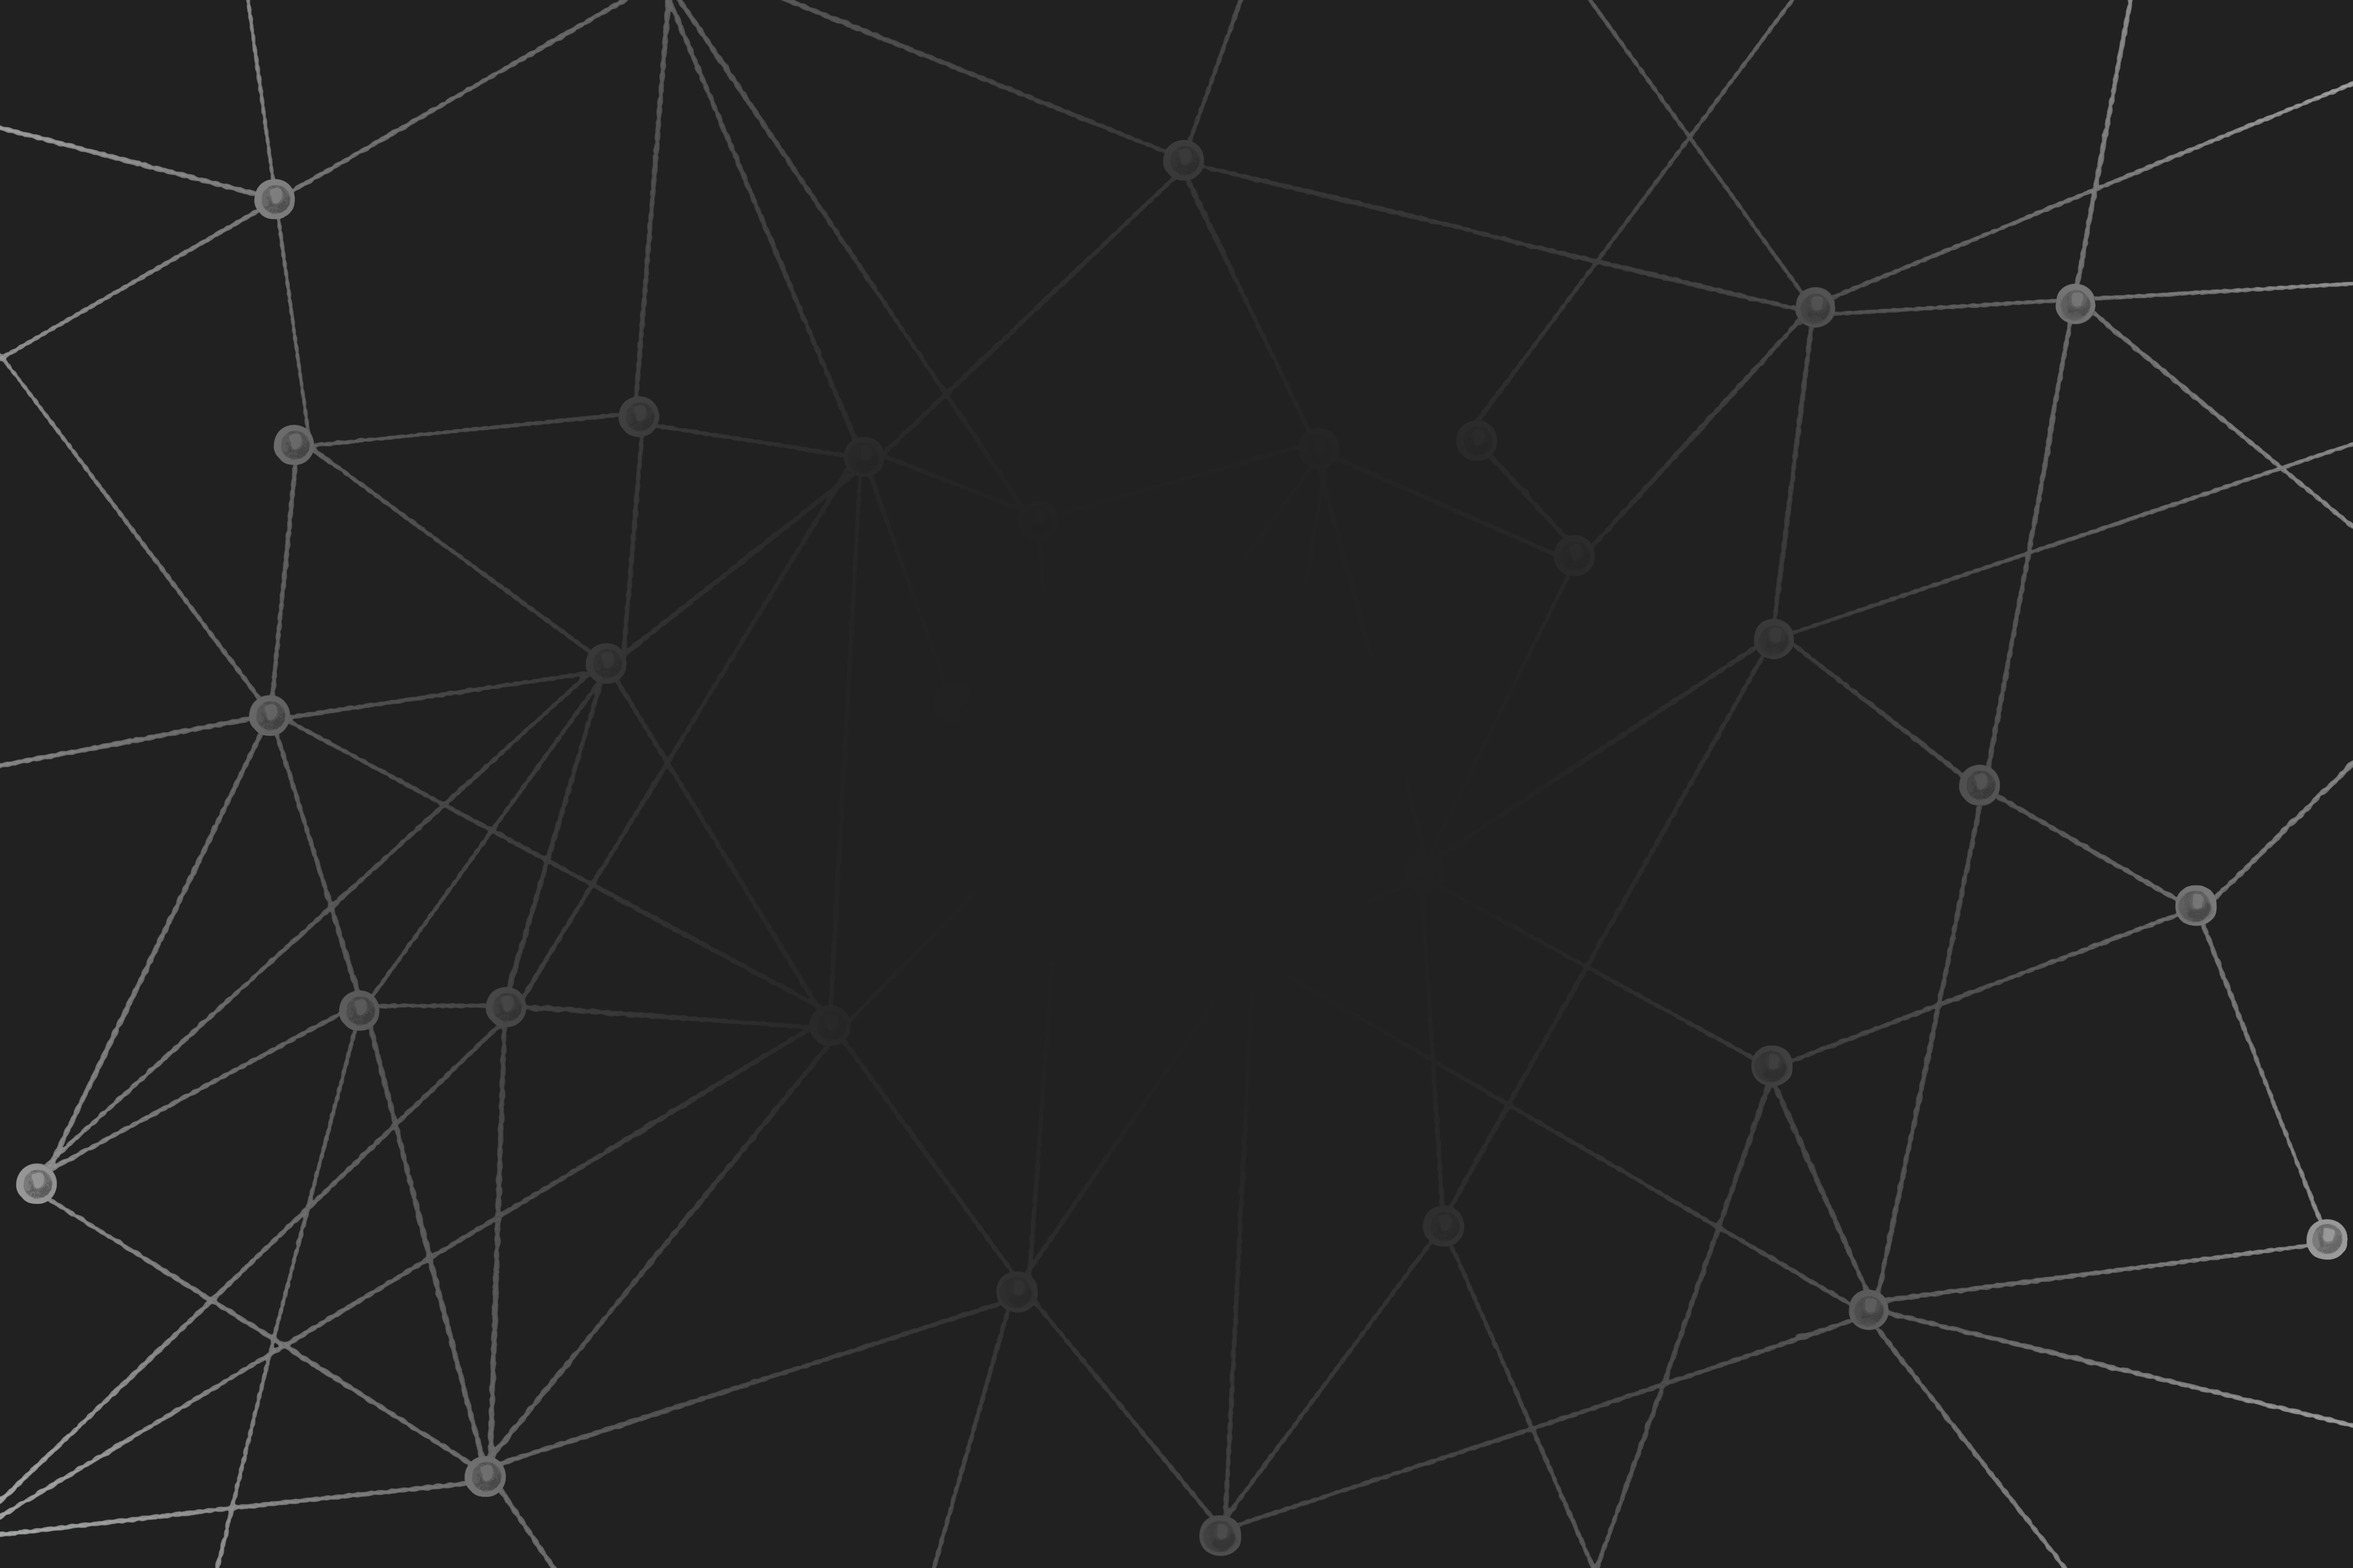
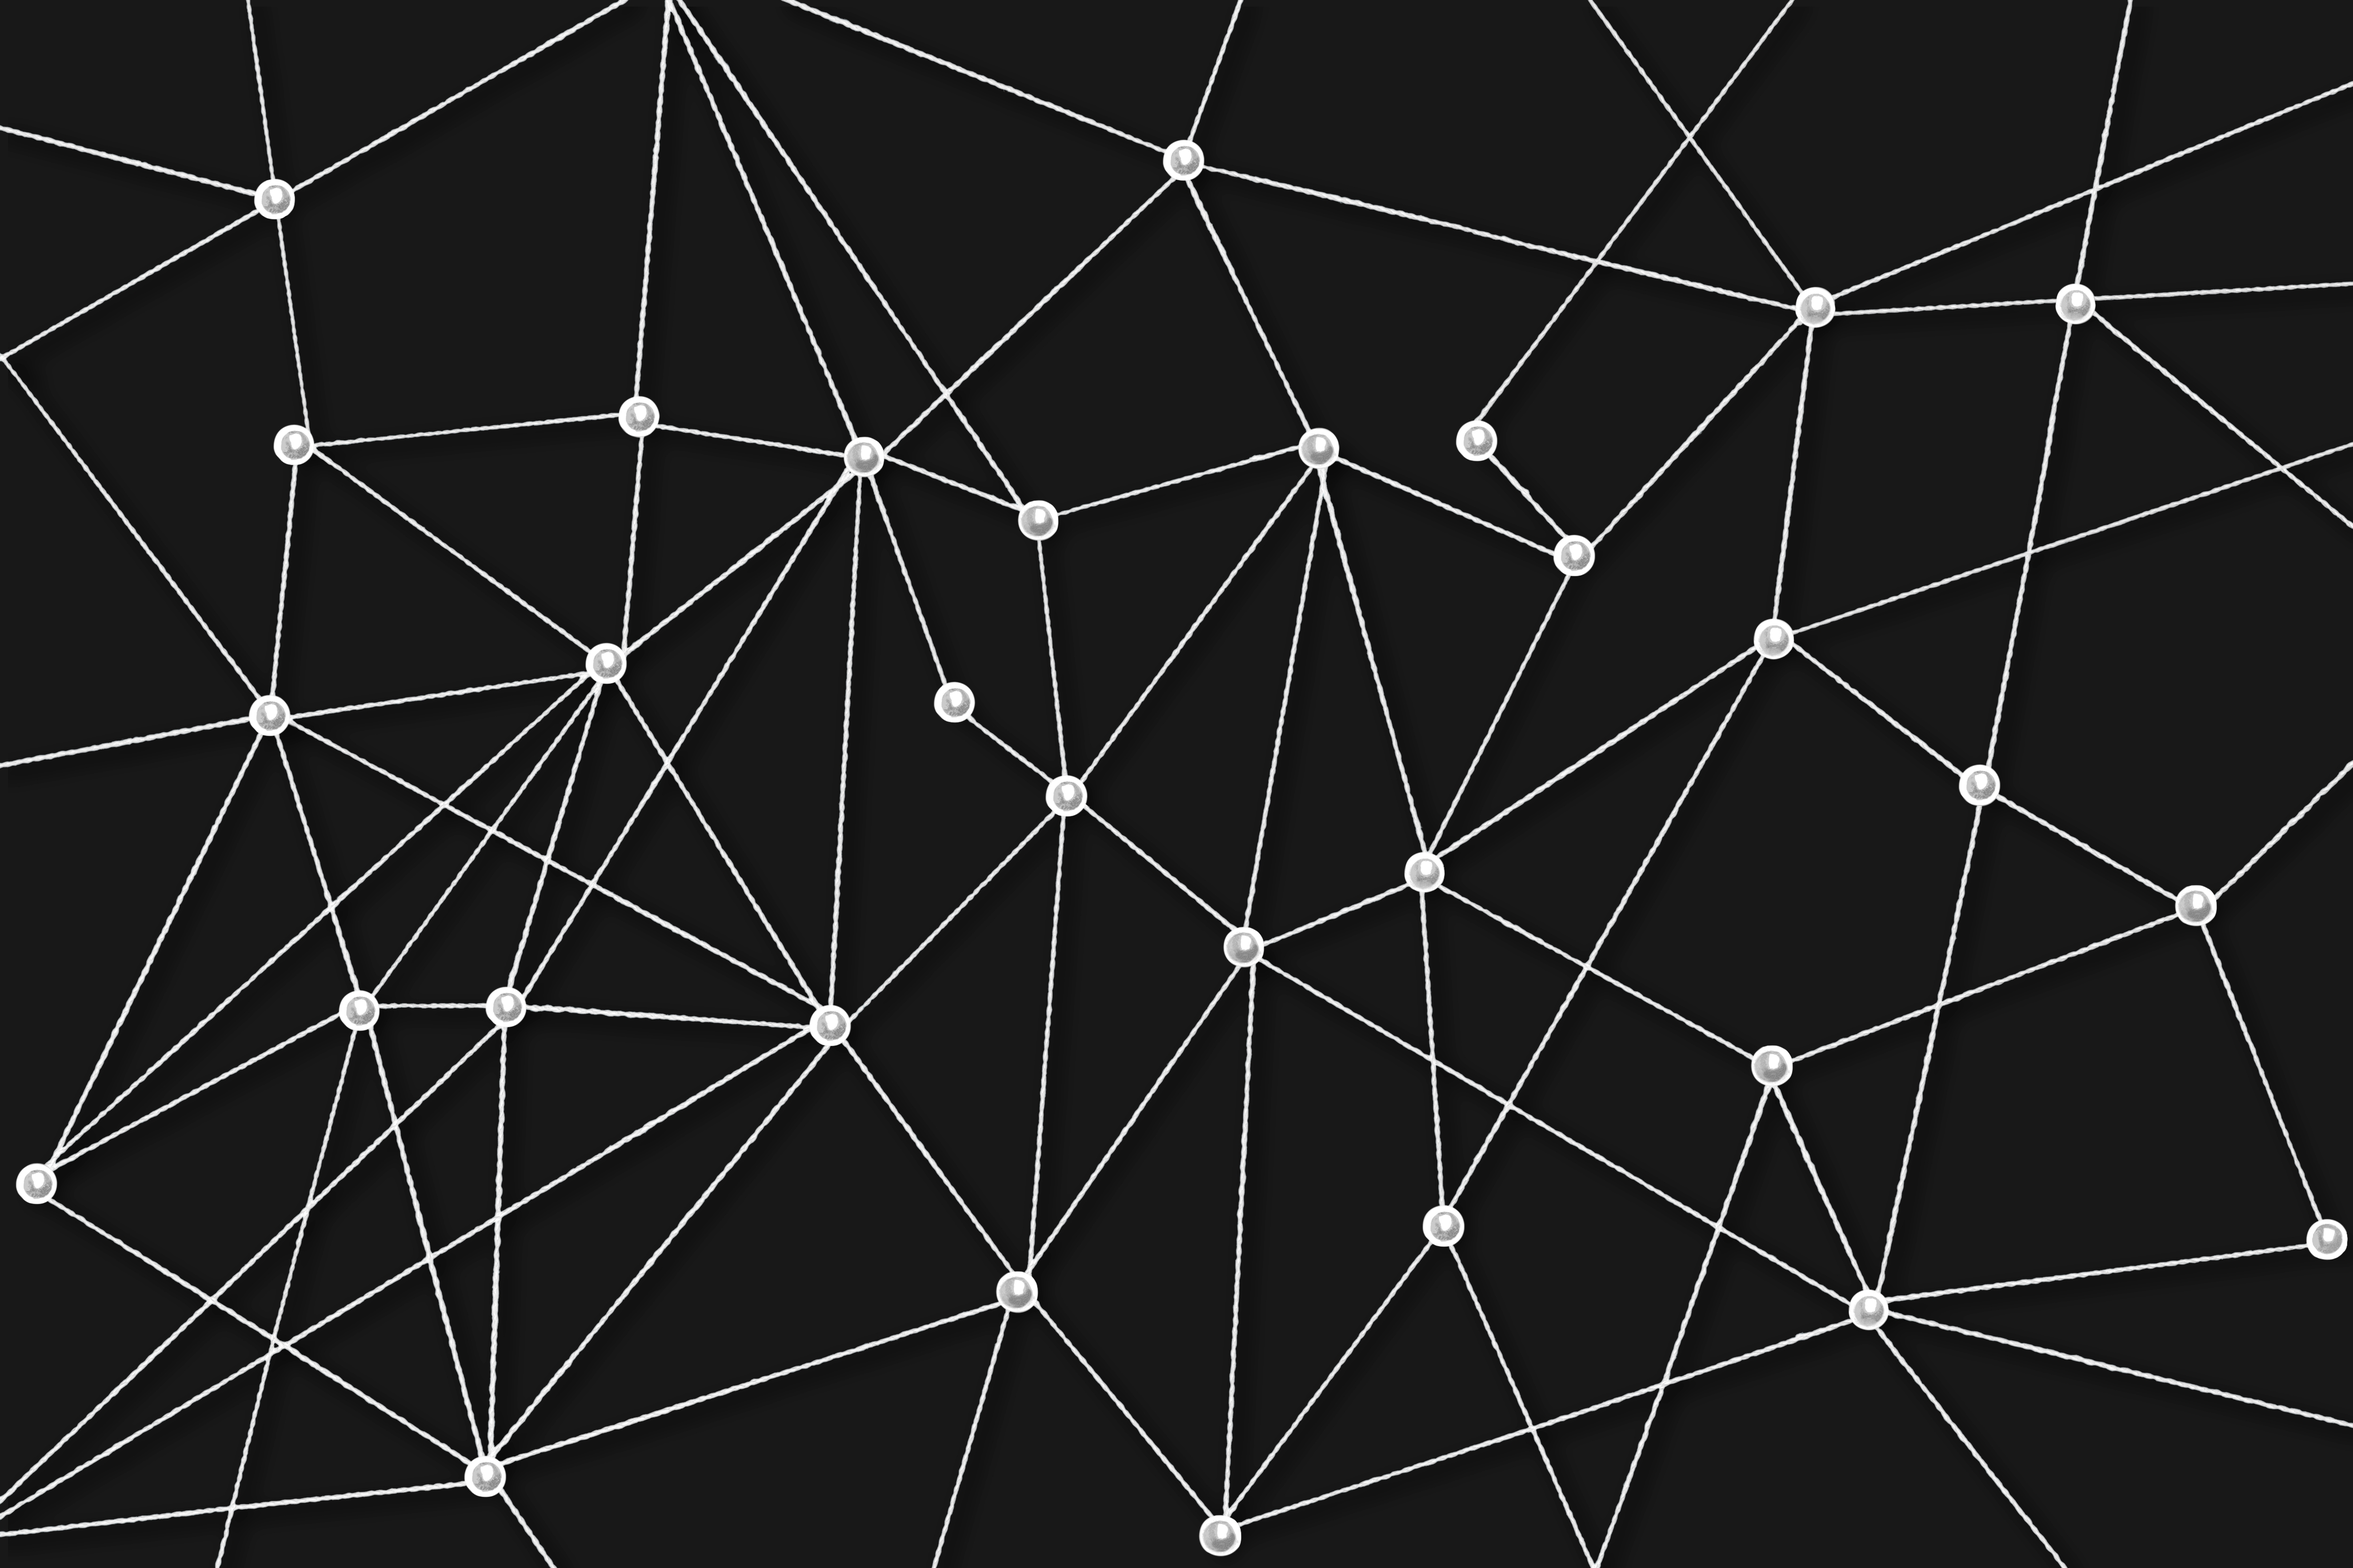
created generic radial bg class and updated ai matcher, application tracker, and programs section

diff --git a/src/app/components/Main/GridSections/AIMatcherSection.tsx b/src/app/components/Main/GridSections/AIMatcherSection.tsx
@@ -1,7 +1,7 @@
 import React from "react";
 import { useRouter } from "next/navigation";
 import BrainAI from "@/app/components/Icons/BrainAI";
-import neuralNetwork from "@/images/neuralnetwork.jpg";
+import neuralNetwork from "@/images/neuralnetwork.png";
 import Image from "next/image";
 
 const AIMatcherSection = () => {
@@ -9,10 +9,10 @@ const AIMatcherSection = () => {
 
   return (
     <div
-      className={`relative row-span-1 col-span-2 max-[2000px]:col-span-4 max-[2000px]:-order-8 rounded-[10px] flex justify-center items-center text-center cursor-pointer smooth-animation overflow-hidden bg-gradient-to-b from-[#212121] to-[#111111]`}
+      className={`relative row-span-1 col-span-2 max-[2000px]:col-span-4 max-[2000px]:-order-8 rounded-[10px] flex justify-center items-center text-center cursor-pointer smooth-animation overflow-hidden bg-gradient-to-b from-[#212121] to-[#111111] reverse-vignette`}
       onClick={() => router.push("/pages/main/ai-matching")}
     >
-      <div className="absolute inset-0 z-0 reverse-vignette">
+      <div className="absolute inset-0 z-0">
         <Image
           src={neuralNetwork}
           alt="Neural Network object-cover"

diff --git a/src/app/components/Main/GridSections/ProgramsSection.tsx b/src/app/components/Main/GridSections/ProgramsSection.tsx
@@ -15,10 +15,8 @@ const ProgramsSection = () => {
         return [1, 2, 1, 2, 1, 2, 2, 2, 1, 1];
       } else if (width >= 1024) {
         return [2, 1, 2, 1, 2, 2, 1, 1];
-      } else if (width >= 768) {
-        return [1, 2, 1, 2, 2, 1];
       } else {
-        return Array(4).fill(1);
+        return [1, 2, 1, 2, 2, 1];
       }
     };
 
@@ -37,7 +35,7 @@ const ProgramsSection = () => {
   const gridItems = rowSpans.map((rowSpan, index) => (
     <div
       key={index}
-      className={`bg-black/20 rounded-lg overflow-hidden col-span-1 row-span-${rowSpan}`}
+      className={`border-double border-2 border-neutral-700 rounded-lg overflow-hidden col-span-1 row-span-${rowSpan}`}
     />
   ));
 
@@ -47,7 +45,7 @@ const ProgramsSection = () => {
       onClick={() => router.push("/pages/main/programs")}
     >
       <div className="absolute inset-0 z-0">
-        <div className="grid grid-cols-2 md:grid-cols-3 lg:grid-cols-4 xl:grid-cols-5 2xl:grid-cols-6 gap-1 p-4 w-full h-full">
+        <div className="grid grid-cols-3 lg:grid-cols-4 xl:grid-cols-5 2xl:grid-cols-6 gap-1 p-4 w-full h-full">
           {gridItems}
         </div>
       </div>

diff --git a/src/app/components/Main/GridSections/ApplicationTrackerSection.tsx b/src/app/components/Main/GridSections/ApplicationTrackerSection.tsx
@@ -9,9 +9,10 @@ const ApplicationTrackerSection = () => {
 
   return (
     <div
-      className="row-span-1 col-span-1 max-[2000px]:col-span-2 max-[1200px]:col-span-4 rounded-[10px] flex justify-center items-center font-bold text-center cursor-pointer transition-all duration-300 ease-in-out relative overflow-hidden bg-gradient-to-b from-[#212121] to-[#111111]"
+      className="row-span-1 col-span-1 max-[2000px]:col-span-2 max-[1200px]:col-span-4 rounded-[10px] flex justify-center items-center font-bold text-center cursor-pointer transition-all duration-300 ease-in-out relative overflow-hidden dark-radial"
       onClick={() => router.push("/pages/main/application-tracker")}
     >
+      <div className="absolute inset-0 z-0"></div>
       <div className="relative flex items-center justify-center w-full h-full">
         <div className="flex items-center justify-center flex-col gap-y-[10px]">
           <Application className="transition-all duration-700 ease-in-out text-[#02ac81] w-8 h-8" />

diff --git a/src/app/globals.css b/src/app/globals.css
@@ -256,3 +256,11 @@ html.lenis body {
   );
   z-index: 21;
 }
+
+.dark-radial {
+  background: radial-gradient(
+    circle at 50% 50%,
+    rgba(18, 18, 18, 1),
+    rgba(37, 37, 37, 0.5)
+  );
+}
